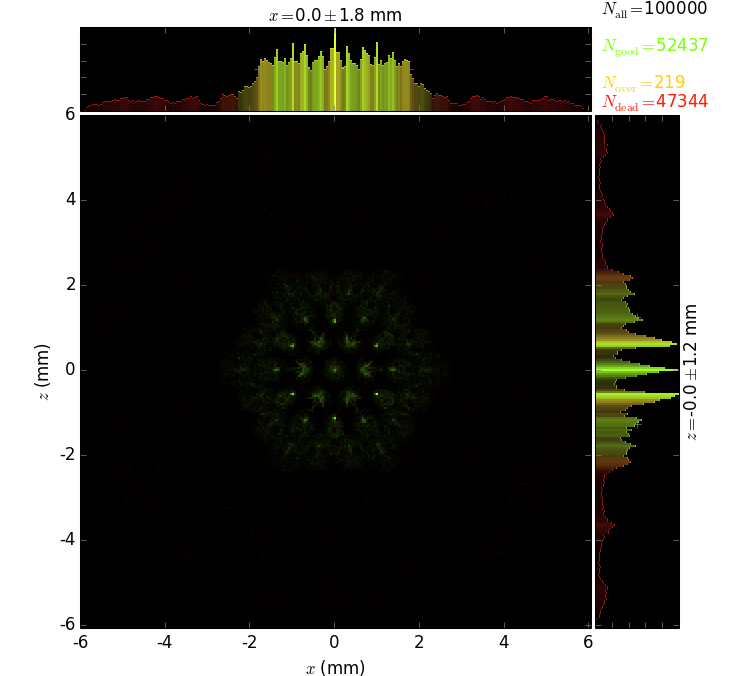
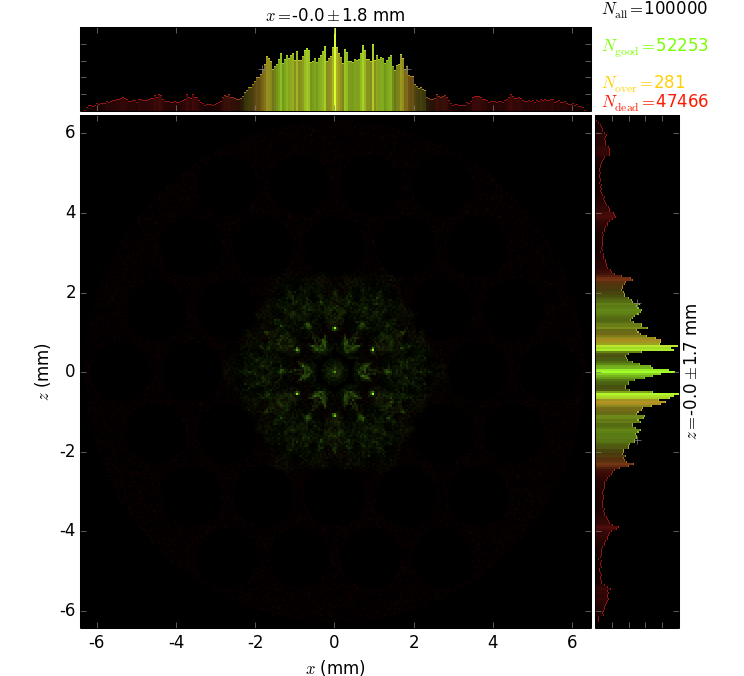
screen f+250

diff --git a/myCapillary0A.py b/myCapillary0A.py
@@ -126,7 +126,7 @@ def build_beamline(nrays=1000):
 #    beamLine.sources[0].dxprime = (np.arcsin((2*n-3) * (r0+wall) / rSample),
 #        np.arcsin((2*n+1) * (r0+wall) / rSample))
 #    beamLine.sources[0].dxprime = 0, np.arcsin(r0 / rSample)
-    beamLine.fsm2 = rsc.Screen(beamLine, 'DiamondFSM2', (0, f+200, 0))
+    beamLine.fsm2 = rsc.Screen(beamLine, 'DiamondFSM2', (0, f+250, 0))
     return beamLine
 
 def run_process(beamLine, shineOnly1stSource=False):
